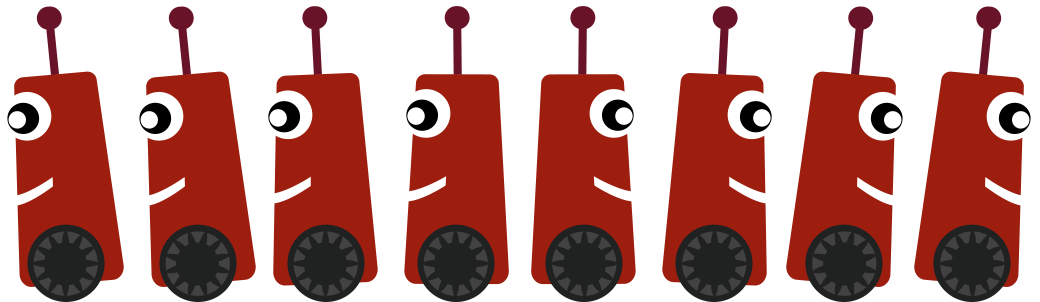
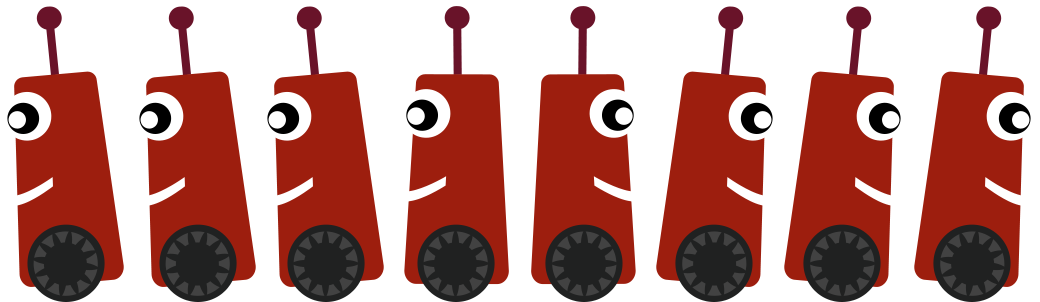
Fixed animations

diff --git a/app/js/rubysadventure.js b/app/js/rubysadventure.js
@@ -72,9 +72,9 @@ function create() {
   player.body.setSize(130, 302);
   player.body.collideWorldBounds = true;
 
-  player.animations.add('left', [3, 2, 1, 0], 30, true);
+  player.animations.add('left', [2, 1, 0], 30, true);
   //player.animations.add('turn', [4], 30, true);
-  player.animations.add('right', [4, 5, 6, 7], 30, true);
+  player.animations.add('right', [5, 6, 7], 30, true);
   game.camera.follow(player);
 
   //bind inputs
